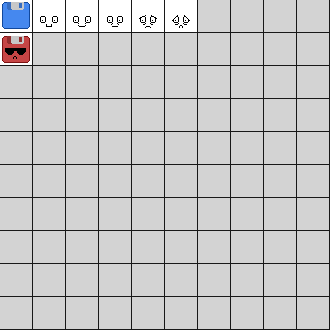
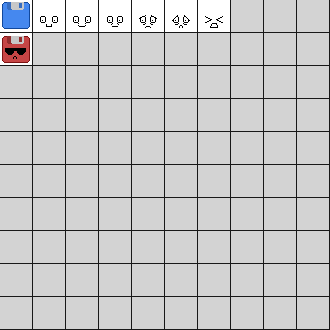
ultimate face

Changed region(s): [[0.5758, 0.0, 0.697, 0.1212]]

diff --git a/escape-the-ram/Assets/Scripts/FaceScript.cs b/escape-the-ram/Assets/Scripts/FaceScript.cs
@@ -1,0 +1,52 @@
+using Bytes;
+using System;
+using System.Collections;
+using System.Collections.Generic;
+using UnityEngine;
+
+public class FaceScript : MonoBehaviour
+{
+    int faceIndex = 0;
+    [SerializeField]
+    private List<Sprite> faces;
+    [SerializeField]
+    private Sprite ultimateFace;
+    private bool isUltimate;
+    // Start is called before the first frame update
+    void Start()
+    {
+        EventManager.AddEventListener("OnDamageChanged", HandleDamageTaken);
+        EventManager.AddEventListener("OnUltimatePush", HandlePush);
+        EventManager.AddEventListener("OnUltimatePull", HandlePull);
+    }
+
+    private void Update()
+    {
+        if (isUltimate)
+        {
+            GetComponent<SpriteRenderer>().sprite = ultimateFace;
+            return;
+        }
+        if (faceIndex >= faces.Count) return;
+        GetComponent<SpriteRenderer>().sprite = faces[faceIndex];
+    }
+    private void HandlePull(BytesData data)
+    {
+        isUltimate = true;
+    }
+
+    private void HandlePush(BytesData data)
+    {
+        isUltimate = false;
+    }
+
+    private void OnDestroy()
+    {
+        EventManager.RemoveEventListener("OnDamageChanged", HandleDamageTaken);
+    }
+    void HandleDamageTaken(BytesData data)
+    {
+        float value = (data as FloatDataBytes).FloatValue;
+        faceIndex = Mathf.RoundToInt(value * faces.Count);
+    }
+}
